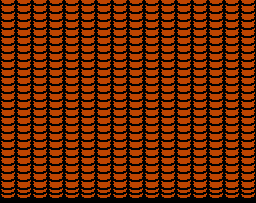
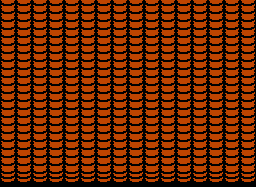
Engine: Change window resolution to NTSC SNES

diff --git a/source/engine/Game.h b/source/engine/Game.h
@@ -23,8 +23,12 @@ class Game
     static constexpr uint32_t TARGET_FRAMERATE = 60u;
     static constexpr uint32_t TARGET_FRAME_TIME = MILLISECONDS_PER_SECOND / TARGET_FRAMERATE;
 
+    static constexpr int X_RESOLUTION_NTSC = 256;
+    static constexpr int Y_RESOLUTION_NTSC = 224;
+    static constexpr int Y_RESOLUTION_PAL  = 240;
+
     static constexpr int X_RESOLUTION = 256;
-    static constexpr int Y_RESOLUTION = 240;
+    static constexpr int Y_RESOLUTION = Y_RESOLUTION_NTSC;
     static constexpr float RENDER_SCALE = 3.0f;
 
 public:
